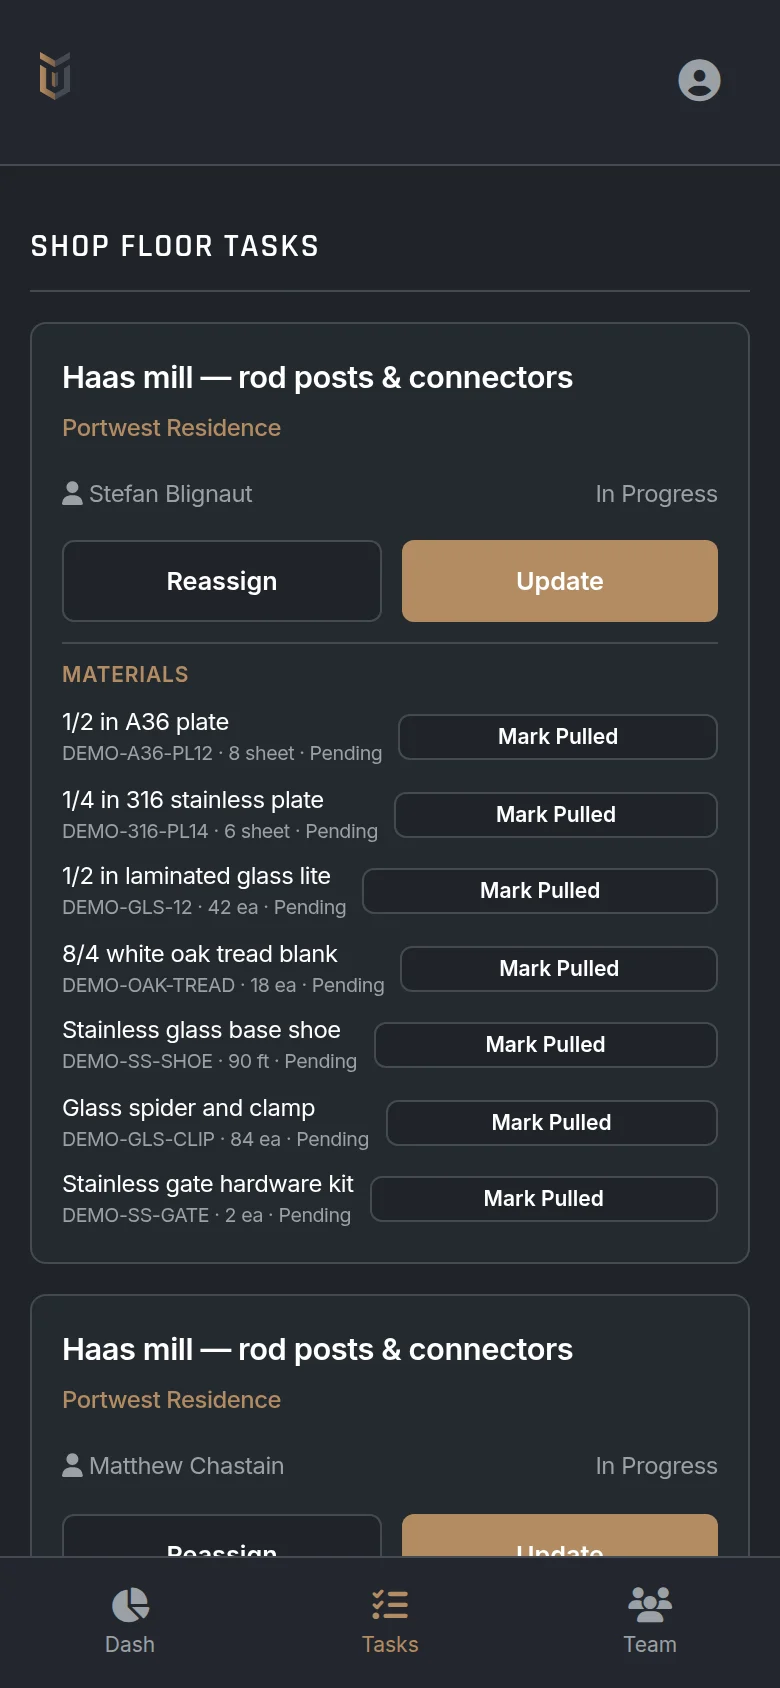
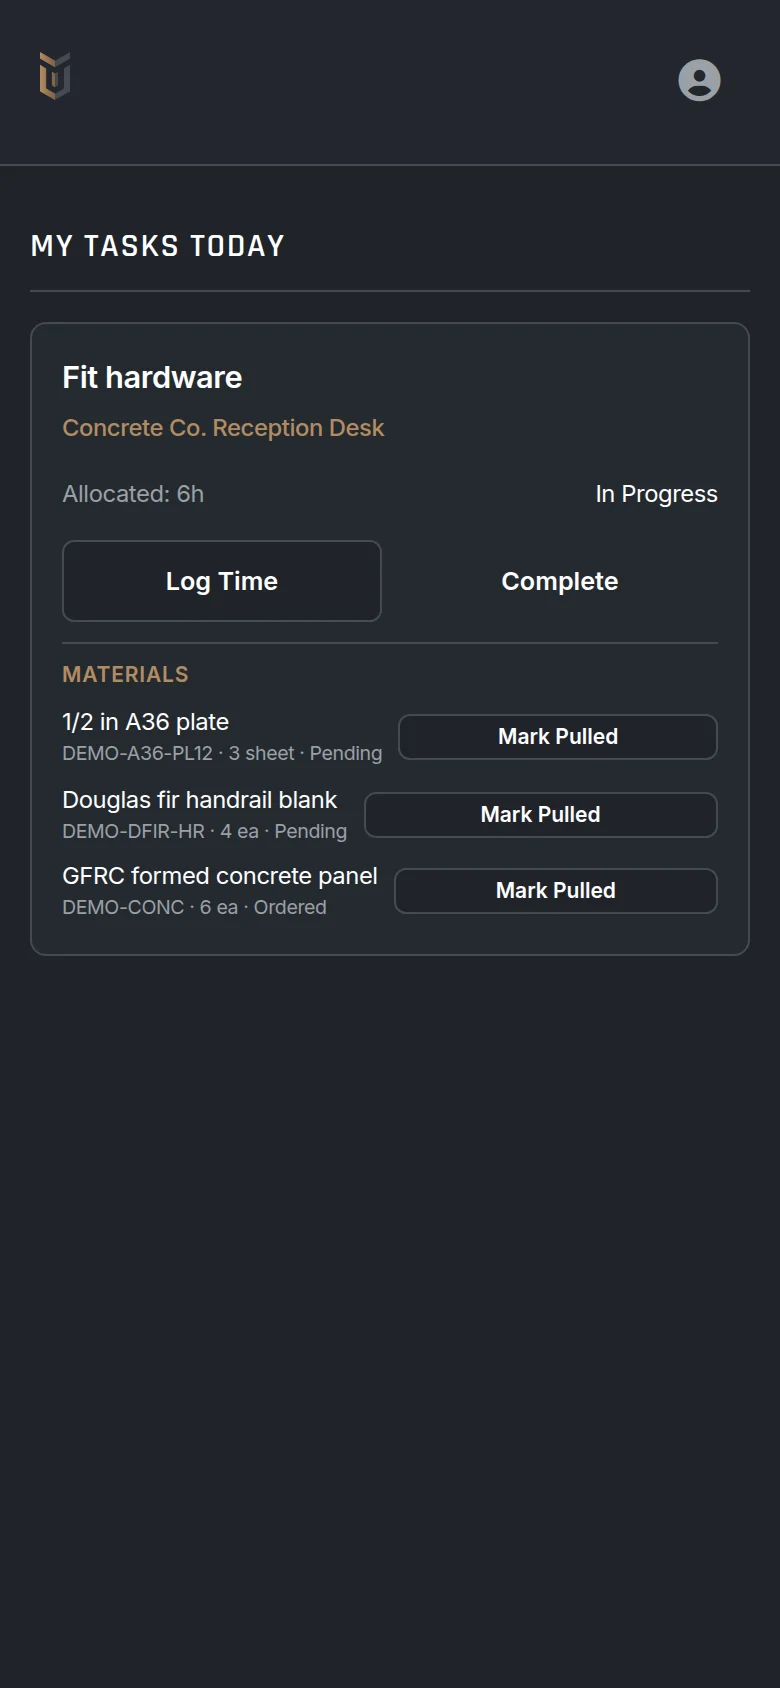
Add laborer and proposal screenshots to the sales page.
The phone frame shows the shop laborer view, and the bids block shows the proposal generator.

diff --git a/sales.html b/sales.html
@@ -162,6 +162,10 @@
                     <p>Send the proposal PDF. When the job goes live, the customer gets a status link, so you're not writing "it's coming along" for the fourth time.</p>
                     <p>Want a login? Text me.</p>
                 </div>
+                <figure class="shot">
+                    <img src="assets/sales/proposal.webp" width="1440" height="900" alt="Ten Works proposal generator with the Key Construction bid in progress.">
+                    <figcaption>Build the proposal.</figcaption>
+                </figure>
                 <figure class="shot proposal-deck">
                     <div class="deck" id="proposal-deck" tabindex="0" role="region" aria-roledescription="carousel" aria-label="Ten Works proposal pages">
                         <div class="deck-viewport">
